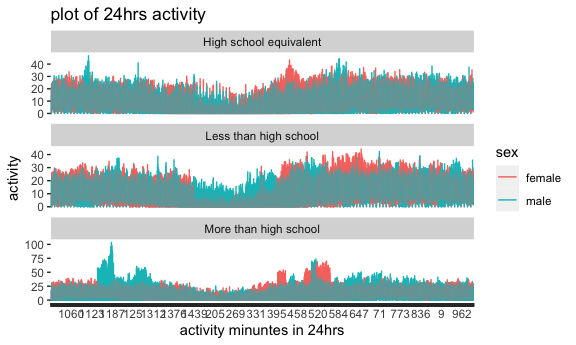
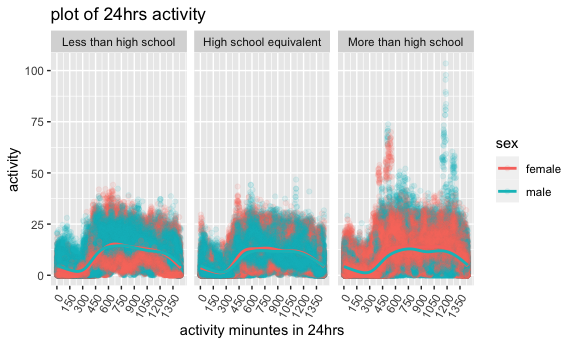
need two more comments

diff --git a/p8105_hw3_lz2949.md b/p8105_hw3_lz2949.md
@@ -177,7 +177,7 @@ Comments: In 2002, there are 6 states observed at 7 or more locations;
 in 2010, the number is 14.
 
 Construct a dataset that is limited to Excellent responses and contains,
-year, state, and a variable averages the data_value accross locations
+year, state, and a variable averages the data_value across locations
 within a state. Make a spaghetti plot.
 
 ``` r
@@ -262,7 +262,8 @@ nhanes_df =
     ## ℹ Specify the column types or set `show_col_types = FALSE` to quiet this message.
 
 ``` r
-# drop na??
+nhanes_df$education = factor(nhanes_df$education, levels = c("Less than high school", "High school equivalent", "More than high school")) # rank education 
+
 nhanes_accel = 
   read_csv("./data/nhanes_accel.csv") |>
   janitor::clean_names()
@@ -300,46 +301,40 @@ kable(education_table, caption = "Sex and corresponding education level")
 
 | education              | female | male |
 |:-----------------------|-------:|-----:|
-| High school equivalent |     23 |   35 |
 | Less than high school  |     28 |   27 |
+| High school equivalent |     23 |   35 |
 | More than high school  |     59 |   56 |
 
 Sex and corresponding education level
 
 Comments: At high school equivalent, number of males is larger than
-female, there are
+female, there are 27 males and 28 females. For other two education
+levels, the number of males and females are similar.
 
 Create a visualization of the age distributions for men and women in
 each education category.
 
 ``` r
-ggplot(education_table, aes(x= education))+
-  geom_bar(aes(y = female, fill = "female"), position = "dodge", stat = "identity", alpha =0.5 )+
-  geom_bar(aes(y= male, fill = "male"), position = "dodge", stat = "identity", alpha = 0.5) +
-  labs(title = "Distribution of male and female in levels of education", 
-       x = "education", 
-       y = "number of individuals") 
+ggplot(m_nhanes, aes(x= education, y = age, fill = sex))+
+  geom_boxplot() +
+  labs(title = "Age distribution of male and female in levels of education", 
+       x = "education levels", 
+       y = "age") 
 ```
 
 <img src="p8105_hw3_lz2949_files/figure-gfm/unnamed-chunk-14-1.png" width="90%" />
-Comments:
-
-Using tidies dataset, aggregate across minutes to create a total
-activity variable for each participant. Plot total activities (y)
-against age (x). Compare men to women and have separater panels for each
-education level. Include trend line or a smooth to illustrate
-differences.
+Comments: From the boxplot, at the education level ‘more than high
+school’, the median age of both sex is the lowest. For female, the
+median age is 41; for male, the median age is 43.5. At less than high
+school education, the female median age is 61 and the male age is 60.
 
 ``` r
-sum_nhanes = m_nhanes |>
-  rowwise() |>
-  mutate(sum_acti = sum(c(min1:min1440))) |>
-  select(-6:-1445)
+m_nhanes$sum_nhanes = rowSums(m_nhanes[, 6:1445])
 
-ggplot(sum_nhanes, aes(x = age, y = sum_acti, color = sex)) +
+ggplot(m_nhanes, aes(x = age, y = sum_nhanes, color = sex)) +
   geom_point() +
-  geom_smooth(method = "lm", formula = y ~ x, se = FALSE) +
-  facet_wrap(~ education) +
+  geom_smooth(se = FALSE) +
+  facet_wrap(.~ education) +
   labs(
     title = "Total Activity vs. Age by Education Level",
     x = "Age",
@@ -347,33 +342,38 @@ ggplot(sum_nhanes, aes(x = age, y = sum_acti, color = sex)) +
   ) 
 ```
 
-<img src="p8105_hw3_lz2949_files/figure-gfm/unnamed-chunk-15-1.png" width="90%" />
-Comments:
+    ## `geom_smooth()` using method = 'loess' and formula = 'y ~ x'
 
-Make a three-panel plot that shows the 24 hour activity time courses for
-each education level and use color to indicate sex.
+<img src="p8105_hw3_lz2949_files/figure-gfm/unnamed-chunk-15-1.png" width="90%" />
+Comments: At high school equivalent and more than high school education
+levels, males tend to have less daily total activity than females. For
+example, in the more than high school group, the average total activity
+for male is 1.2041457^{4} minutes. For female, the number is
+1.3812863^{4} minutes. Additionally, in all three groups, higher age
+people tend to have lower total activities.
 
 ``` r
 day_activity = m_nhanes |>
   pivot_longer(cols = min1:min1440, names_to = "activity_minutes", values_to = "activity") 
 
-day_activity$activity_minutes = gsub("min", "", day_activity$activity_minutes) # remove "min" in the xlabel
+day_activity$activity_minutes = as.numeric(gsub("min", "", day_activity$activity_minutes)) # remove "min" in the xlabel, and convert it to dbl
 
 ggplot(day_activity, aes(x=activity_minutes, y = activity, color = sex))+
-  geom_line() +
-  facet_wrap(~education, scales = "free_y", ncol = 1) +
+  geom_point(alpha = 0.1) +
+  geom_smooth(se = FALSE) +
+  facet_grid(.~ education) +
   labs(
     title = "plot of 24hrs activity",
     x = "activity minuntes in 24hrs",
     y = "activity"
   ) +
-  scale_x_discrete(labels = function(x) ifelse(seq_along(x) %% 70 == 0, x, ""))
+  scale_x_continuous(limits = c(0,1440), 
+                     breaks = seq(0,1440,150) # have x-labels every 150 mins 
+                     )+
+  theme(axis.text.x = element_text(angle = 60, hjust = 1)) # to make all labels visible
 ```
+
+    ## `geom_smooth()` using method = 'gam' and formula = 'y ~ s(x, bs = "cs")'
 
 <img src="p8105_hw3_lz2949_files/figure-gfm/unnamed-chunk-16-1.png" width="90%" />
-
-``` r
-# not sure
-```
-
 Comments:
